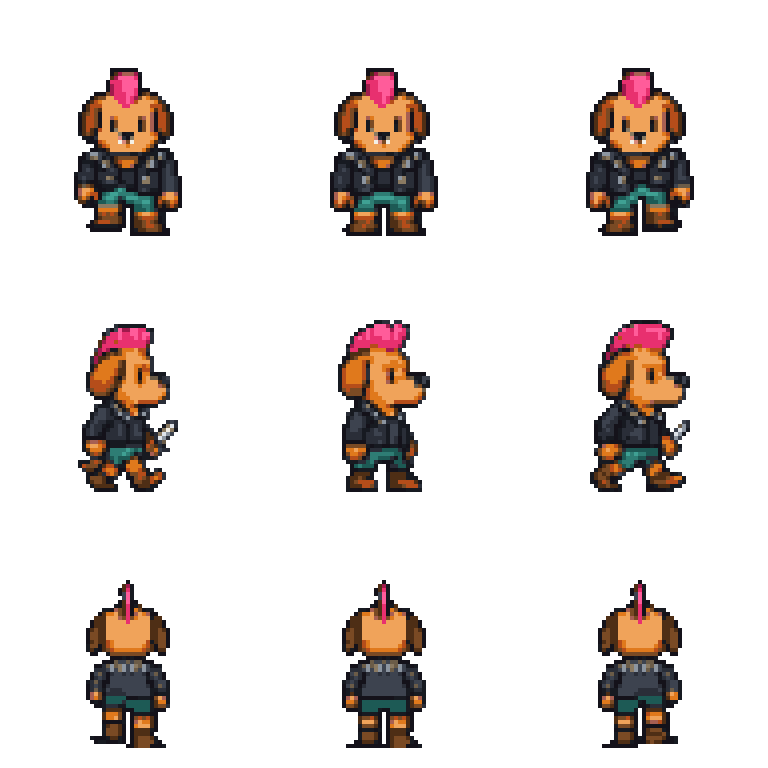
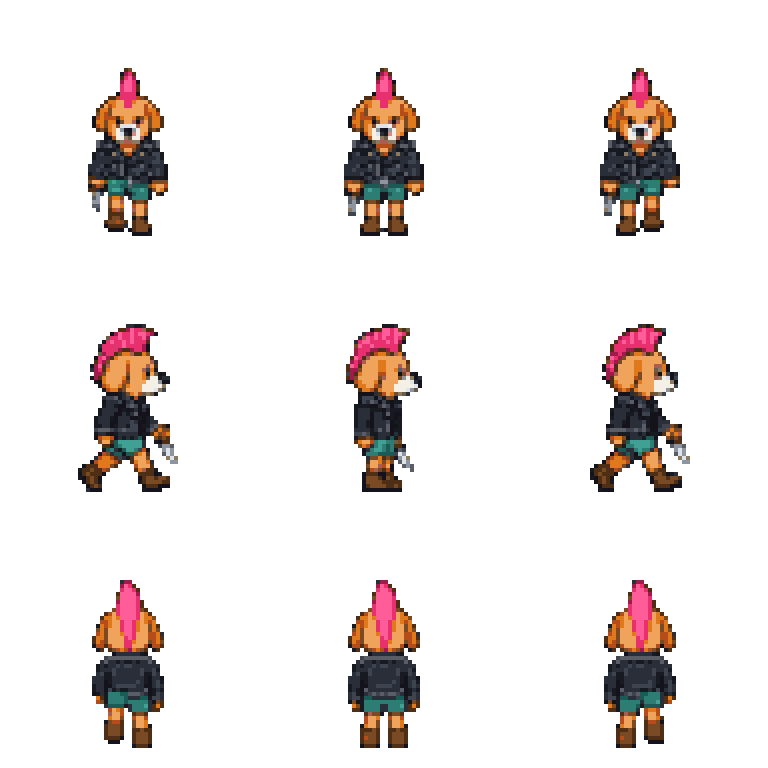
Dog Punk: ship the walk and attack sheets rebuilt from one matched batch
All six raws (walk front/side/back, attack front/side/back) were
regenerated together tonight, back to back, so both sheets would
actually match instead of pairing fresh art against an older session's.
Two real defects were caught and fixed before this ship, not glossed
over:

- walk-back kept failing SAME FOOT TWICE — the BACK ROW prompt block
  never told the generator the two step frames must lift opposite feet
  (the SIDE ROW block already did). Fixed in walkgrid_prompt.txt.
- once walk-back passed, the character gate caught a real MATERIAL
  VANISHED: its mohawk measured at half the area of the attack sheet's
  back-view mohawk, mostly the darker shade tone instead of the bright
  base. Fixed by locking the mohawk's size and tone-dominance in
  art-style.json, same pattern as the muzzle-size fix earlier tonight.

Rebuilt via rebuild-art.sh --verify: hero_sheet.png and
hero_attack_sheet.png both pass verify_sheet.py's sheet and character
checks clean (no failures, only pre-existing informational warnings on
jacket highlight/muzzle-note colour reuse, unrelated to tonight's
fixes). Cache bumped to dog-punk-v38.

diff --git a/games/dog-punk/sw.js b/games/dog-punk/sw.js
@@ -1,6 +1,6 @@
 importScripts("../../shared/sw-core.js");
 
-GCRegisterServiceWorker("dog-punk-v37", [
+GCRegisterServiceWorker("dog-punk-v38", [
   "./",
   "./index.html",
   "./style.css",
